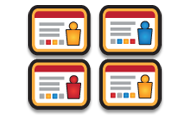
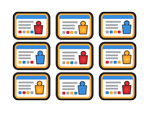
Added Blue Highlights & added my profile

diff --git a/website_2014/website_2014/index.html b/website_2014/website_2014/index.html
@@ -106,12 +106,11 @@ About-us
       </div>
       <!--phase1-->
         
-     <div class="work-phase" style="margin-right: 20px;"> <span class="meterIcon"></span>
-        <h2>Office Managers love us</h2>
-        <p>Vestibulum gravida augue eu ornare pharetra pellentesque nibh lacus ultricies vel dignissim.</p>
+     <div class="work-phase" style="margin-right: 20px;"> <span class="profileIcon"></span>
+        <h2>Forget SpreadSheets</h2>
         <div class="hover">
-          <h2 class="">We build brands</h2>
-          <span class="buildingIcon"></span> <a class="btn" href="#">learn more</a> </div>
+          <h2 class="">Always updated</h2>
+          <span class="profileIcon"></span> <p class="work-phase .hover p"> Keep your data up-to-date effortlessly and visually. </p><!--<a class="btn" href="#">learn more</a> --> </div>
         <!--hover--> 
       </div>
       

diff --git a/website_2014/website_2014/assets/css/main.css b/website_2014/website_2014/assets/css/main.css
@@ -2010,7 +2010,7 @@ ul.navbar-nav{
 	display:block;
 }
 .teamIcon{
-	background:url(../img/organimi/icon_orgchart_02.png) no-repeat center center;
+	background:url(../img/organimi/orgchart.png) no-repeat center center;
 	background-size:160px auto;
 	width:160px;
 	height:100px;
@@ -2056,7 +2056,7 @@ ul.navbar-nav{
 }
 
 .mobileIcon{
-	background:url(../img/organimi/photoboard2.png) no-repeat center center;
+	background:url(../img/organimi/photoboards.png) no-repeat center center;
 	background-size:160px auto;
 	width:160px;
 	height:100px;
@@ -2156,5 +2156,10 @@ ul.navbar-nav{
 	display:block;
 }
 
-
+.profileIcon{
+	background:url(../img/organimi/myprofile.png) no-repeat center center;
+	width:200px;
+	height:150px;
+	display:block;
+}
 
